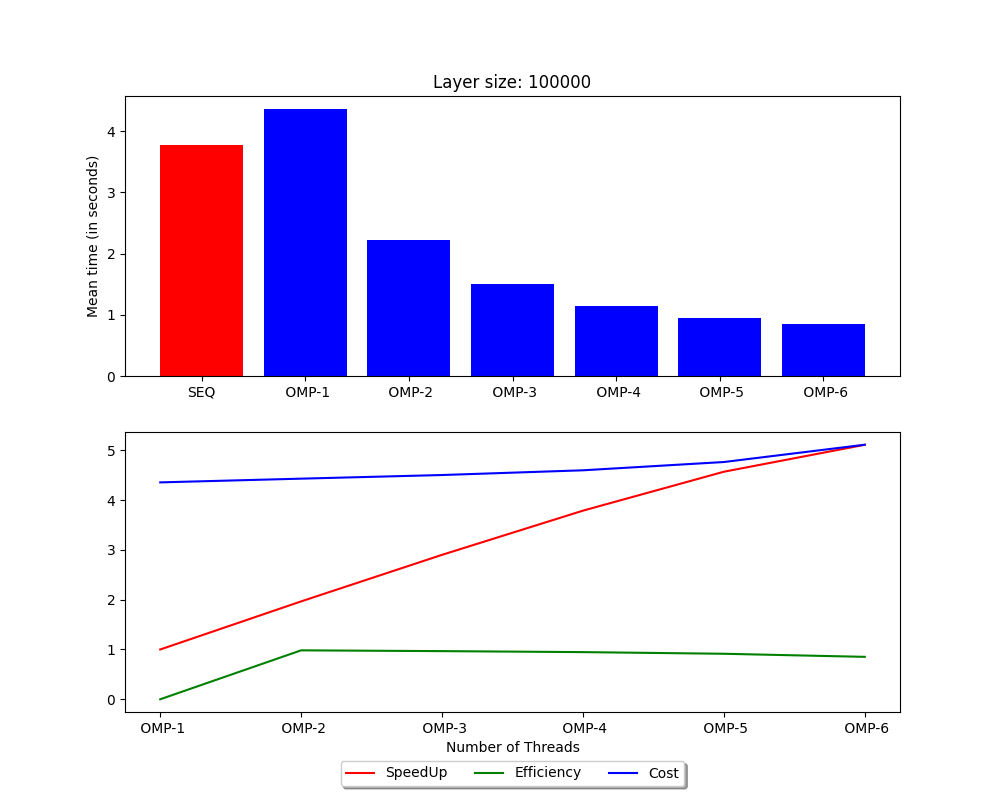
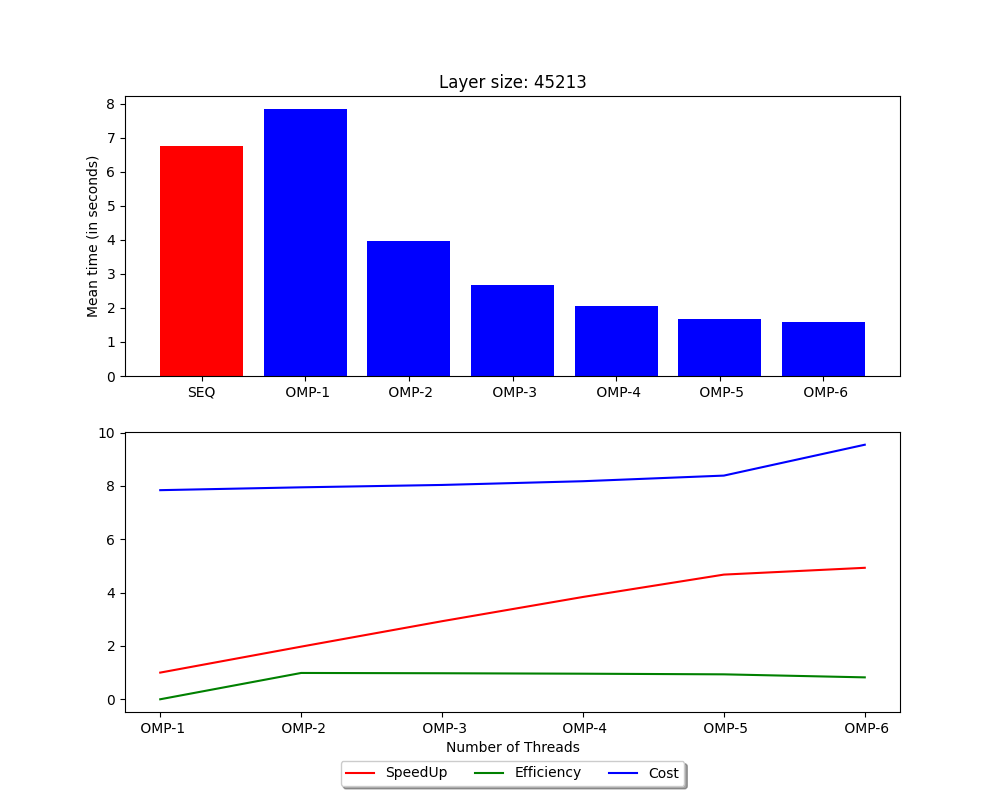
make all_no_assert

diff --git a/Src/energy_storms_omp.c b/Src/energy_storms_omp.c
@@ -97,9 +97,7 @@ void update(energy_t *layer, int layer_size, int k, int pos, energy_t energy)
 
 	assert(energy_k >= THRESHOLD / layer_size || energy_k <= -THRESHOLD / layer_size);
 
-	if (energy_k >= THRESHOLD / layer_size
-			|| energy_k <= -THRESHOLD / layer_size)
-		layer[k] = layer[k] + energy_k;
+	layer[k] = layer[k] + energy_k;
 }
 
 /* ANCILLARY FUNCTIONS: These are not called from the code section which is measured, leave untouched */
@@ -262,8 +260,9 @@ void energy_relaxation(energy_t *layer, int layer_size)
 
 	#pragma omp barrier
 
-	#ifndef NDEBUG
+	#ifndef NDEBUG //assertions anciliary variables
 		boolean first = FALSE; 
+		boolean reached = FALSE;
 	#endif
 
 	int k = 0;
@@ -271,6 +270,7 @@ void energy_relaxation(energy_t *layer, int layer_size)
 	for (k = firstCellIndex; k <= endCellIndex; k++)
 	{
 		#ifndef NDEBUG
+			assert(!reached);
 			if(!first) 
 			{
 				assert(&layer[k - 1] == cellBeforeFirstCell);
@@ -282,7 +282,12 @@ void energy_relaxation(energy_t *layer, int layer_size)
 		energy_t oldCurrentCellValue = layer[k];
 
 		if(&layer[k + 1] == cellAfterEndCell) 
+		{
 			layer[k] = (nextOldPreviousCellValue + layer[k] + oldCellBeforeFirstCellValue)/3;
+			#ifndef NDEBUG 
+				reached = TRUE; 
+			#endif
+		}
 		else
 			layer[k] = (nextOldPreviousCellValue + layer[k] + layer[k + 1])/3;
 
@@ -354,7 +359,7 @@ int main(int argc, char *argv[])
 	}
 	double initial = cp_Wtime();
 
-	#pragma omp parallel num_threads(n_threads)
+	#pragma omp parallel num_threads(n_threads) if(n_threads > 1)
 	{	
 		#pragma omp for simd
 		for (int kk = 0; kk < layer_size; kk++)
@@ -397,7 +402,7 @@ int main(int argc, char *argv[])
 				assert(min <= layer_size);
 				assert(max >= 0);
 			
-				#pragma omp parallel num_threads(n_threads)
+				#pragma omp parallel num_threads(n_threads) if(n_threads > 1)
 				{
 					/* 4.2.2. Update layer using the ancillary values.
 						Skip updating the first and last positions */
@@ -415,7 +420,7 @@ int main(int argc, char *argv[])
 		/* 4.2. Energy relaxation between storms */
 		#ifndef ENERGY_RELAXATION_BEFORE //code below is after 
 
-			#pragma omp parallel num_threads(n_threads)
+			#pragma omp parallel num_threads(n_threads) if(n_threads > 1)
 			{
 				energy_relaxation(&layer[0], layer_size);
 			}
@@ -434,7 +439,7 @@ int main(int argc, char *argv[])
 		#endif
 		
 		/* 4.3. Locate the maximum value in the layer, and its position */
-		#pragma omp parallel num_threads(n_threads)
+		#pragma omp parallel num_threads(n_threads) if(n_threads > 1)
 		{
 			#pragma omp for
 			for (int k = 1; k < layer_size - 1; k++)

diff --git a/Src/TestsScriptBase.py b/Src/TestsScriptBase.py
@@ -4,6 +4,7 @@ import re
 import sys
 import csv
 import numpy as np
+import signal
 import matplotlib.pyplot as plt
 from matplotlib.ticker import MaxNLocator
 
@@ -232,3 +233,8 @@ def run_tests(layer_size, test_files, n_runs = 2, test_original_program = True):
             lastSample = newSample
             
     return SEQsamples, OMPsamples
+
+def signal_handler(sig, frame):
+    sys.exit(0)
+
+signal.signal(signal.SIGINT, signal_handler)

diff --git a/Src/Benchmark.py b/Src/Benchmark.py
@@ -3,11 +3,11 @@ from TestsScriptBase import *
 import os
 #################MAIN##################
 
-PLOT_FILE = "benchmark"
+PLOT_FILE = sys.argv[1]
 
 all_test_files = get_test_files()
 
-layer_size = 452137
+layer_size = 45213
 
 # samples = run_tests(layer_size, all_test_files, n_runs = 5)
 

diff --git a/Src/TestFilesScript.py b/Src/TestFilesScript.py
@@ -8,9 +8,9 @@ PLOT_FILE = "mass_test"
 all_test_files = get_test_files()
 
 # layer_size = 111117
-layer_size = 100
+layer_size = 10000
 
-N_RUNS = 10
+N_RUNS = 50
 
 
 MAX_THREADS = os.cpu_count()
